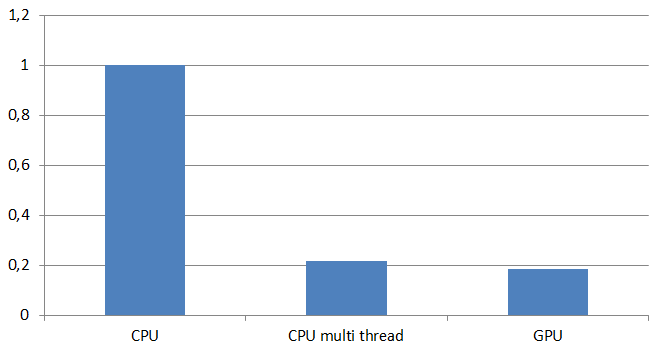
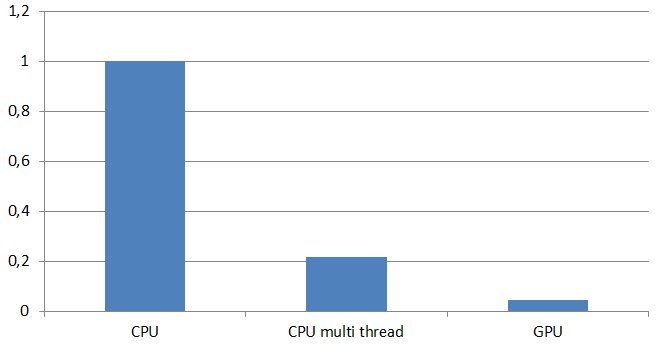
Modified local work size on some kernels, better performances

diff --git a/Multi thread GPU OpenCL/main.c b/Multi thread GPU OpenCL/main.c
@@ -294,7 +294,6 @@ int main (int argc, const char * argv[]) {
 	/********************************************/
 
 	QueryPerformanceCounter(&startGPU);
-
 	QueryPerformanceCounter(&startWrite);
 
 	cl_mem original0, grey0, original1, grey1, resize0, resize1, zncc0 , zncc1, crossChecked, occlusion;
@@ -468,9 +467,9 @@ int main (int argc, const char * argv[]) {
 
 	}
 
-	global_work_size[0] = widthResize - 8 - maxDisp; global_work_size[1] = heightResize - 8;
+	global_work_size[0] = widthResize - 8 - maxDisp - 3; global_work_size[1] = heightResize - 8;
 	global_work_offset[0] = 4; global_work_offset[1] = 4;
-	local_work_size[0] = 1; local_work_size[1] = 1;
+	local_work_size[0] = 33; local_work_size[1] = 31;
 
 	err = clEnqueueNDRangeKernel(cmd_queue, kernel[2], 2, global_work_offset, global_work_size, local_work_size, 0, 0, 0);
 
@@ -502,9 +501,9 @@ int main (int argc, const char * argv[]) {
 
 	}
 
-	global_work_size[0] = widthResize - 8 - maxDisp; global_work_size[1] = heightResize - 8;
+	global_work_size[0] = widthResize - 8 - maxDisp - 3; global_work_size[1] = heightResize - 8;
 	global_work_offset[0] = 4 + maxDisp; global_work_offset[1] = 4;
-	local_work_size[0] = 1; local_work_size[1] = 1;
+	local_work_size[0] = 33; local_work_size[1] = 31;
 
 	err = clEnqueueNDRangeKernel(cmd_queue, kernel[3], 2, global_work_offset, global_work_size, local_work_size, 0, 0, 0);
 
@@ -565,9 +564,9 @@ int main (int argc, const char * argv[]) {
 
 	}
 
-	global_work_size[0] = widthResize - 1; global_work_size[1] = heightResize - 1;
+	global_work_size[0] = widthResize - 1 - 6; global_work_size[1] = heightResize - 1 - 3;
 	global_work_offset[0] = 1; global_work_offset[1] = 1;
-	local_work_size[0] = 1; local_work_size[1] = 1;
+	local_work_size[0] = 28; local_work_size[1] = 25;
 
 	err = clEnqueueNDRangeKernel(cmd_queue, kernel[5], 2, global_work_offset, global_work_size, local_work_size, 0, 0, 0);
 
@@ -597,7 +596,7 @@ int main (int argc, const char * argv[]) {
 	size_t origin[3] = {0, 0, 0};
 	size_t region[3] = {width, height, 1};
 
-	err = clEnqueueReadImage(cmd_queue, grey0, CL_TRUE, origin, region, 0, 0, greyImage0, 0, 0, 0);
+	err = clEnqueueReadImage(cmd_queue, grey0, CL_FALSE, origin, region, 0, 0, greyImage0, 0, 0, 0);
 	if(err != CL_SUCCESS){
 
 		printf("\nError clEnqueueReadImage: %d\n", err);
@@ -610,7 +609,7 @@ int main (int argc, const char * argv[]) {
 	origin[0] = origin[1] = origin[2] = 0;
 	region[0] = width; region[1] = height; region[2] = 1;
 
-	err = clEnqueueReadImage(cmd_queue, grey1, CL_TRUE, origin, region, 0, 0, greyImage1, 0, 0, 0);
+	err = clEnqueueReadImage(cmd_queue, grey1, CL_FALSE, origin, region, 0, 0, greyImage1, 0, 0, 0);
 	if(err != CL_SUCCESS){
 
 		printf("\nError clEnqueueReadImage: %d\n", err);
@@ -623,7 +622,7 @@ int main (int argc, const char * argv[]) {
 	origin[0] = origin[1] = origin[2] = 0;
 	region[0] = widthResize; region[1] = heightResize; region[2] = 1;
 
-	err = clEnqueueReadImage(cmd_queue, resize0, CL_TRUE, origin, region, 0, 0, resizeImage0, 0, 0, 0);
+	err = clEnqueueReadImage(cmd_queue, resize0, CL_FALSE, origin, region, 0, 0, resizeImage0, 0, 0, 0);
 	if(err != CL_SUCCESS){
 
 		printf("\nError clEnqueueReadImage: %d\n", err);
@@ -636,7 +635,7 @@ int main (int argc, const char * argv[]) {
 	origin[0] = origin[1] = origin[2] = 0;
 	region[0] = widthResize; region[1] = heightResize; region[2] = 1;
 
-	err = clEnqueueReadImage(cmd_queue, resize1, CL_TRUE, origin, region, 0, 0, resizeImage1, 0, 0, 0);
+	err = clEnqueueReadImage(cmd_queue, resize1, CL_FALSE, origin, region, 0, 0, resizeImage1, 0, 0, 0);
 	if(err != CL_SUCCESS){
 
 		printf("\nError clEnqueueReadImage: %d\n", err);
@@ -649,7 +648,7 @@ int main (int argc, const char * argv[]) {
 	origin[0] = origin[1] = origin[2] = 0;
 	region[0] = widthResize - 8; region[1] = heightResize - 8; region[2] = 1;
 
-	err = clEnqueueReadImage(cmd_queue, zncc0, CL_TRUE, origin, region, 0, 0, znccImage0, 0, 0, 0);
+	err = clEnqueueReadImage(cmd_queue, zncc0, CL_FALSE, origin, region, 0, 0, znccImage0, 0, 0, 0);
 	if(err != CL_SUCCESS){
 
 		printf("\nError clEnqueueReadImage: %d\n", err);
@@ -662,7 +661,7 @@ int main (int argc, const char * argv[]) {
 	origin[0] = origin[1] = origin[2] = 0;
 	region[0] = widthResize - 8; region[1] = heightResize - 8; region[2] = 1;
 
-	err = clEnqueueReadImage(cmd_queue, zncc1, CL_TRUE, origin, region, 0, 0, znccImage1, 0, 0, 0);
+	err = clEnqueueReadImage(cmd_queue, zncc1, CL_FALSE, origin, region, 0, 0, znccImage1, 0, 0, 0);
 	if(err != CL_SUCCESS){
 
 		printf("\nError clEnqueueReadImage: %d\n", err);
@@ -675,7 +674,7 @@ int main (int argc, const char * argv[]) {
 	origin[0] = origin[1] = origin[2] = 0;
 	region[0] = widthResize; region[1] = heightResize; region[2] = 1;
 
-	err = clEnqueueReadImage(cmd_queue, crossChecked, CL_TRUE, origin, region, 0, 0, crossCheckedImage, 0, 0, 0);
+	err = clEnqueueReadImage(cmd_queue, crossChecked, CL_FALSE, origin, region, 0, 0, crossCheckedImage, 0, 0, 0);
 	if(err != CL_SUCCESS){
 
 		printf("\nError clEnqueueReadImage: %d\n", err);
@@ -688,7 +687,7 @@ int main (int argc, const char * argv[]) {
 	origin[0] = origin[1] = origin[2] = 0;
 	region[0] = widthResize; region[1] = heightResize; region[2] = 1;
 
-	err = clEnqueueReadImage(cmd_queue, occlusion, CL_TRUE, origin, region, 0, 0, occlusionImage, 0, 0, 0);
+	err = clEnqueueReadImage(cmd_queue, occlusion, CL_FALSE, origin, region, 0, 0, occlusionImage, 0, 0, 0);
 	if(err != CL_SUCCESS){
 
 		printf("\nError clEnqueueReadImage: %d\n", err);

diff --git a/README.md b/README.md
@@ -94,7 +94,7 @@ Average on 5 trials: 42.154733 seconds
 **General tasks**
 
 - [x] Implement the algorithm using OpenCL and a GPU
-- [ ] Start the optimization of the OpenCL kernels required in the next phase
+- [x] Start the optimization of the OpenCL kernels required in the next phase
 ________________________________________________________________________________________
 
 **Secondary tasks**
@@ -105,17 +105,17 @@ ________________________________________________________________________________
 
 ## Time of execution
 
-Average on 5 trials: 35.6964294 seconds
+Average on 5 trials: 8.619477 seconds
 
 ## Profiling
 
 ![Comparison graph](Performances graphs/Comparison_performances.PNG  "Comparison graph")
 
-We didn't save that much time in comparison to the CPU multithread program.
+The GU program is about 20 times faster than the CPU one. This is already a good acceleration but we can push the optimization a bit further.
 
 ![Profiling graph 1](Performances graphs/Profiling_all.PNG  "Percentage of the time passed in each part of the program")
 
-The reading and the writing commands are executed fast enough. Our problems are the kernels execution.
+The reading and the writing commands are executed fast enough. Our main problems are the kernels execution.
 
 ![Profiling graph 2](Performances graphs/Profiling_kernels.PNG  "Percentage of time passed in each kernel")
 
